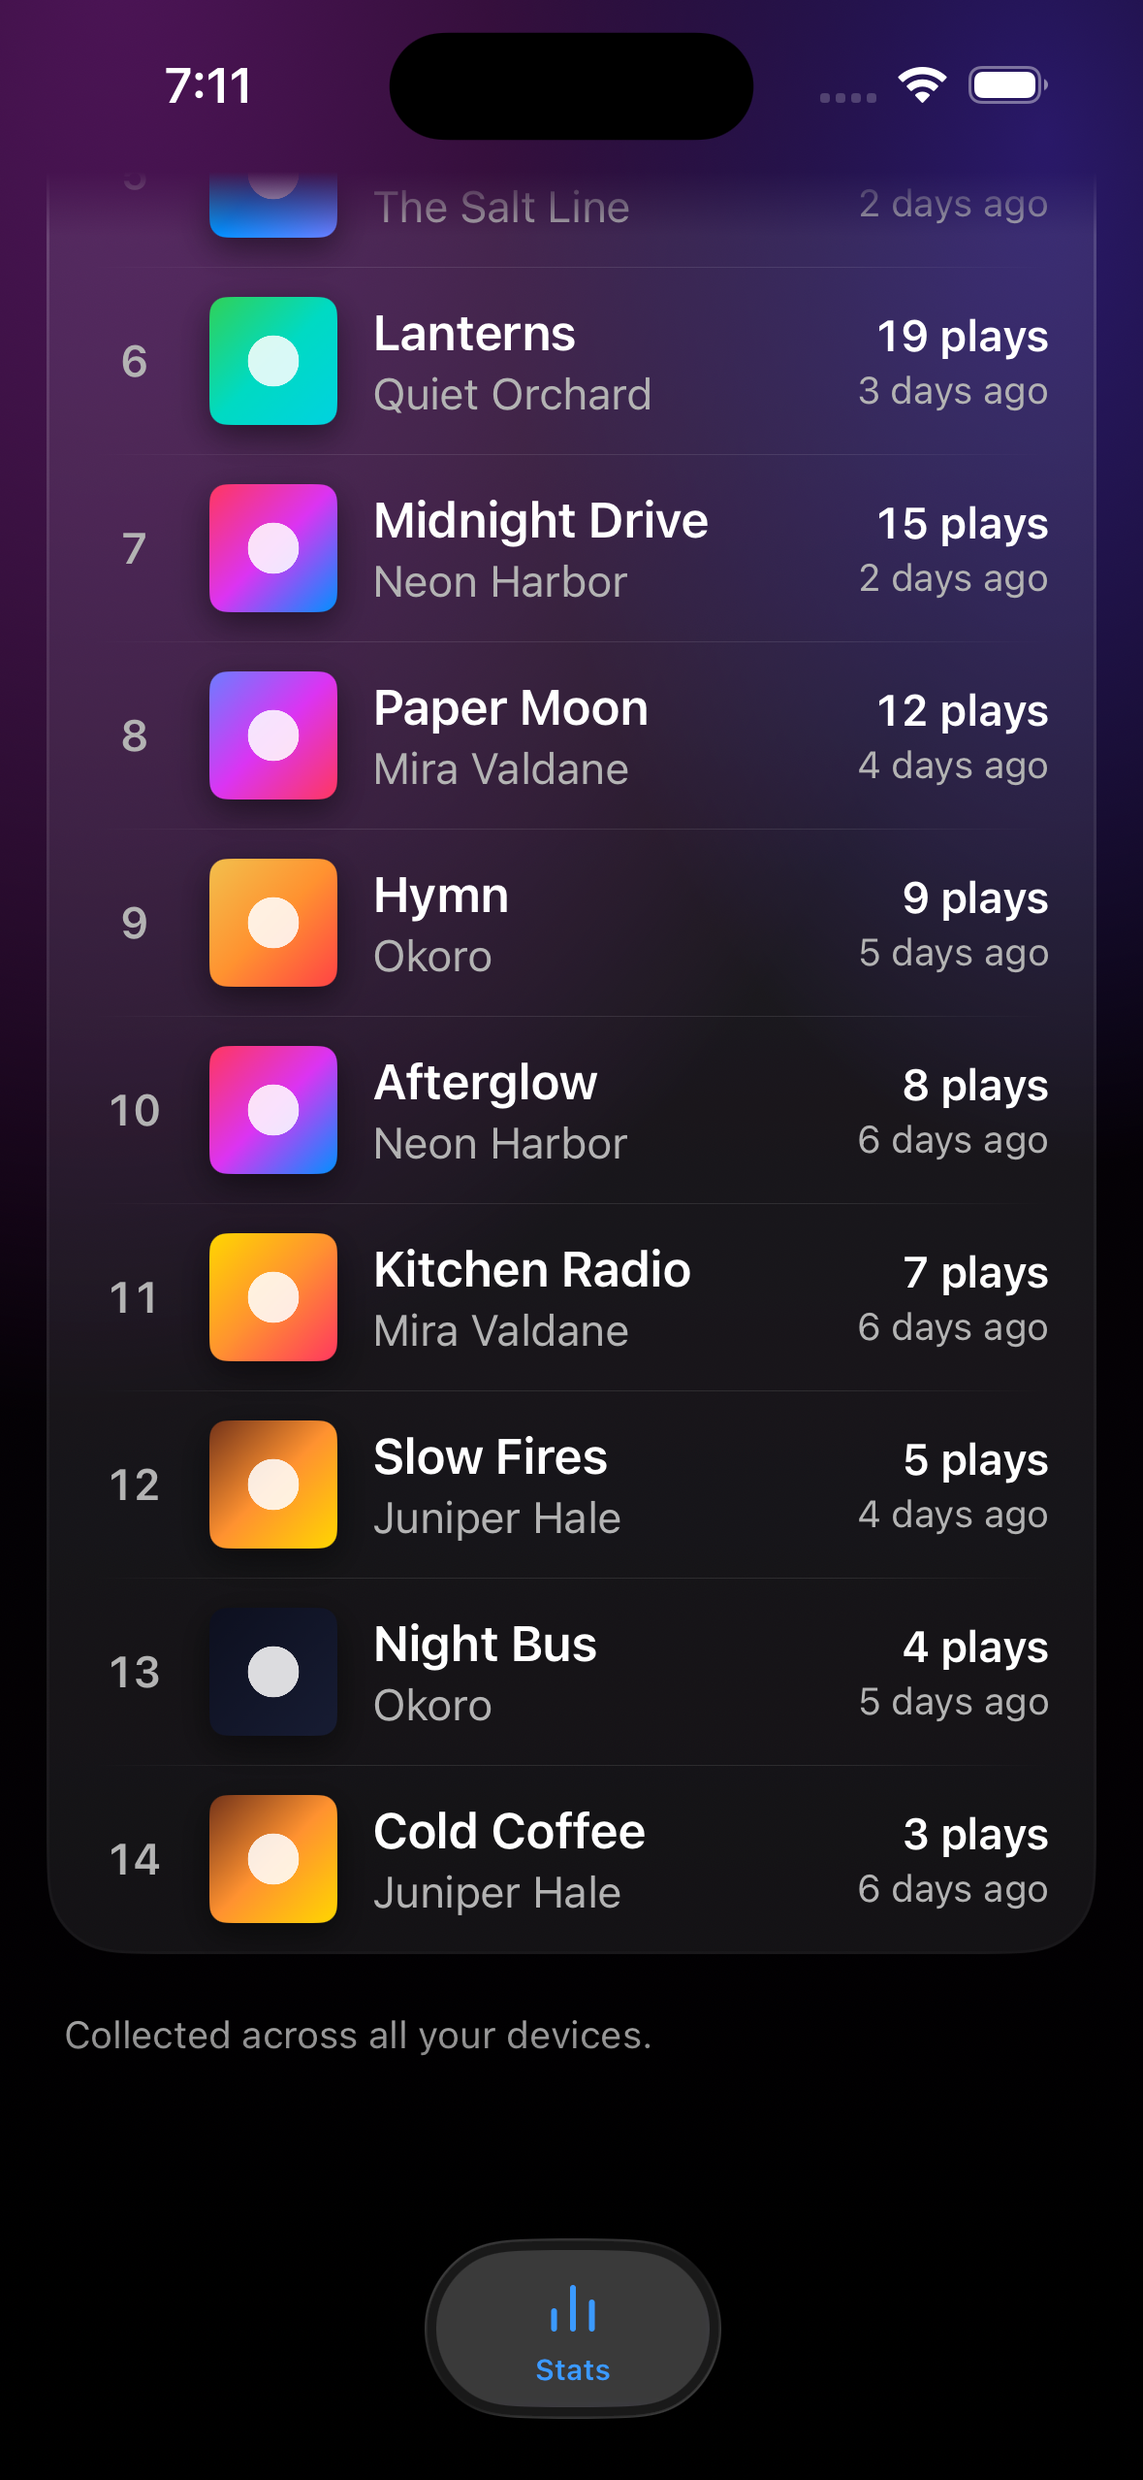
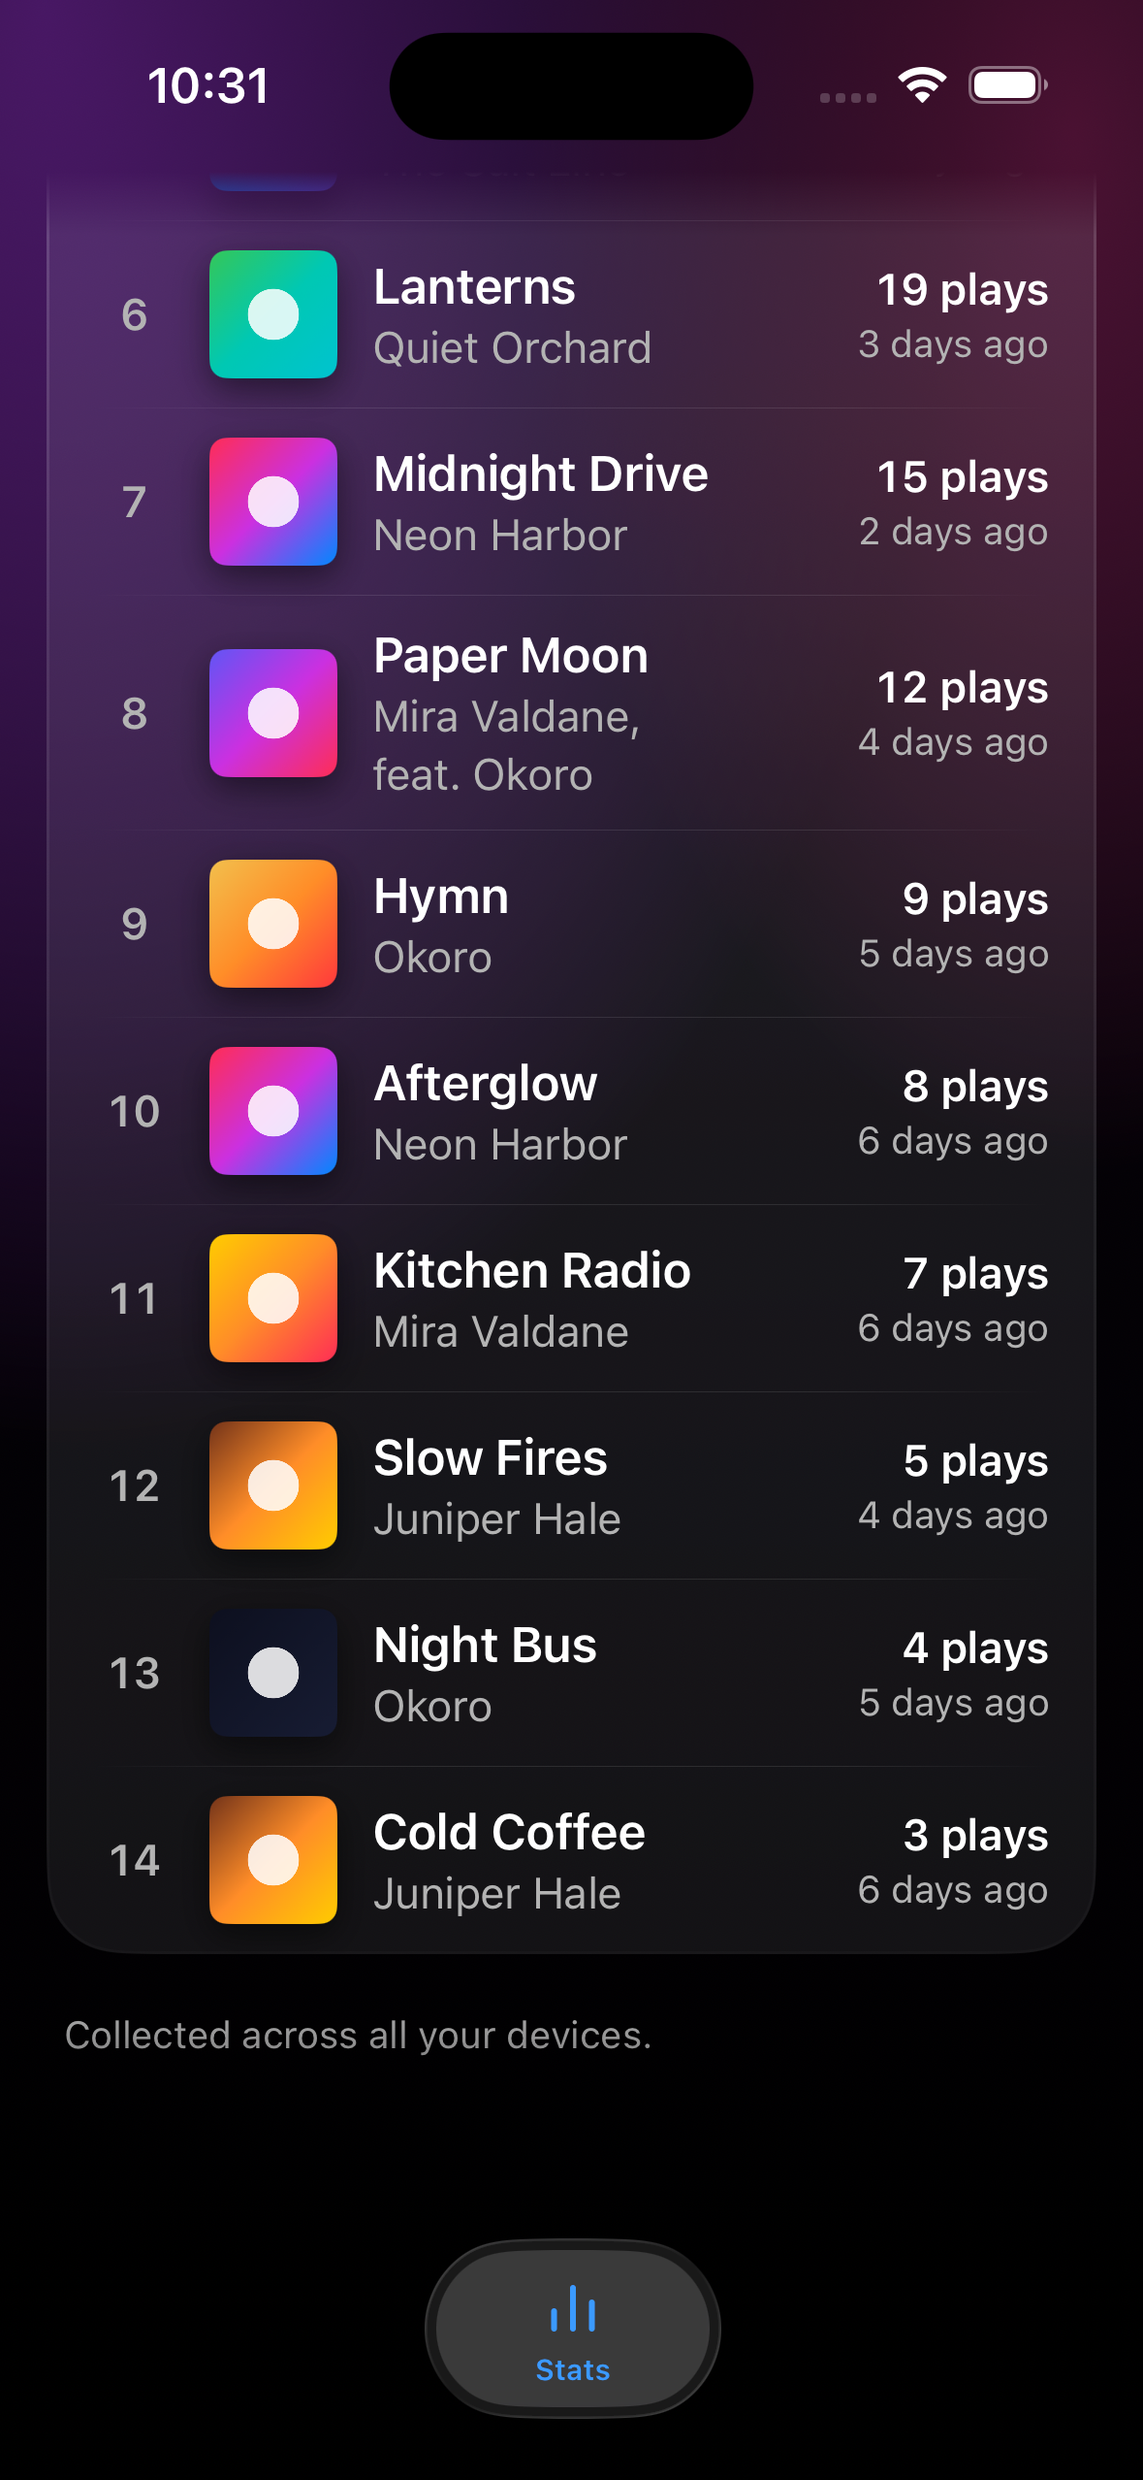
#288 Codex round 1: credit keys, featured names in Stats rows, Dynamic Type, role=link
- Mac Stats opens an 'A feat. B' credit at A's page (creditKey).
- Stats track rows on both apps show the plain title with the title's
  features in the linked artist line (display only; stored titles unchanged).
- iPhone artist page, Artists list and link line follow Dynamic Type.
- Mac artist links announce as links (role=link).
- UI test retaps a row tapped mid-scroll.

Claude-Session: https://claude.ai/code/session_016wtvpvRFjMyGctvKw2v9pz

diff --git a/apps/ios/Locally/Views/Library/ArtistPageView.swift b/apps/ios/Locally/Views/Library/ArtistPageView.swift
@@ -19,6 +19,12 @@ struct ArtistPageView: View {
     @State private var palette: AmbientPalette?
     @ScaledMetric(relativeTo: .largeTitle) private var titleSize: CGFloat = 30
     @ScaledMetric(relativeTo: .subheadline) private var lineSize: CGFloat = 14
+    /// Row covers grow with the text, up to a size that still leaves room for the words.
+    @ScaledMetric(relativeTo: .body) private var rowCover: CGFloat = 40
+
+    private static let sectionFont = Font.system(.headline, weight: .bold)
+    private static let metaFont = Font.subheadline
+    private static let rowTitleFont = Font.system(.subheadline, weight: .semibold)
 
     private var entry: ArtistCatalogEntry? { catalog?.entry(forKey: route.key) }
     private var stacked: Bool { dynamicTypeSize.isAccessibilitySize }
@@ -133,10 +139,10 @@ struct ArtistPageView: View {
         VStack(alignment: .leading, spacing: 8) {
             HStack(alignment: .firstTextBaseline) {
                 Text(label)
-                    .font(Theme.Font.sectionTitle)
+                    .font(Self.sectionFont)
                     .foregroundStyle(Theme.primaryText)
                 Text(Copy.Artists.sectionCount(count))
-                    .font(Theme.Font.meta)
+                    .font(Self.metaFont)
                     .foregroundStyle(Theme.textDim)
                 Spacer()
             }
@@ -167,12 +173,12 @@ struct ArtistPageView: View {
                             }
                         VStack(alignment: .leading, spacing: 2) {
                             Text(release.title)
-                                .font(Theme.Font.rowTitle)
+                                .font(Self.rowTitleFont)
                                 .foregroundStyle(Theme.primaryText)
                                 .lineLimit(stacked ? 3 : 1)
                             if let year = release.year, !year.isEmpty {
                                 Text(year)
-                                    .font(Theme.Font.rowSubtitle)
+                                    .font(Self.metaFont)
                                     .foregroundStyle(Theme.secondaryText)
                                     .lineLimit(1)
                             }
@@ -218,18 +224,18 @@ struct ArtistPageView: View {
             }
             StatsCoverView(owner: release.id, cache: covers.cache, cornerRadius: 6)
                 .id(covers.generation)
-                .frame(width: 40, height: 40)
+                .frame(width: min(rowCover, 64), height: min(rowCover, 64))
                 .accessibilityHidden(true)
             VStack(alignment: .leading, spacing: 2) {
                 Text(title)
-                    .font(Theme.Font.rowTitle)
+                    .font(Self.rowTitleFont)
                     .foregroundStyle(Theme.primaryText)
                     .lineLimit(stacked ? 4 : 2)
                     .accessibilityHidden(true)
-                ArtistLineText(main: credit.main, featuring: credit.featuring, font: .system(size: 13), lineLimit: stacked ? nil : 2)
+                ArtistLineText(main: credit.main, featuring: credit.featuring, font: .footnote, lineLimit: stacked ? nil : 2)
                 if let detail {
                     Text(detail)
-                        .font(.system(size: 12))
+                        .font(.caption)
                         .foregroundStyle(Theme.textHint)
                         .lineLimit(stacked ? 3 : 1)
                         .accessibilityHidden(true)
@@ -263,7 +269,7 @@ struct ArtistPageView: View {
     private var gone: some View {
         VStack(alignment: .leading, spacing: 16) {
             Text(Copy.Artists.gone)
-                .font(Theme.Font.sectionTitle)
+                .font(Self.sectionFont)
                 .foregroundStyle(Theme.primaryText)
                 .fixedSize(horizontal: false, vertical: true)
                 .accessibilityAddTraits(.isHeader)

diff --git a/apps/ios/Locally/Views/Stats/StatsRows.swift b/apps/ios/Locally/Views/Stats/StatsRows.swift
@@ -70,11 +70,20 @@ private struct StatsRow: View {
 
     private var stacked: Bool { typeSize.isAccessibilitySize }
 
+    /// A track's title without its "(feat. ...)" (the names move to the artist line); other rows keep theirs.
+    private var plainTitle: String {
+        guard item.trackId != nil else { return item.title }
+        let plain = ArtistNames.splitFeaturing(item.title).title
+        return plain.isEmpty ? item.title : plain
+    }
+
     /// Tracks and albums carry their artist as the subtitle: it becomes the linked artist line (#288).
+    /// A track's line also holds the features from its title, merged with any in an "A feat. B" artist.
     private var artistCredit: (artist: String, featuring: [String])? {
         guard item.releaseId != nil, !item.subtitle.isEmpty else { return nil }
         let split = ArtistNames.splitArtistFeaturing(item.subtitle)
-        return (split.artist, split.featuring)
+        let fromTitle = item.trackId != nil ? ArtistNames.splitFeaturing(item.title).featuring : []
+        return (split.artist, FeaturingNames.merged(fromTitle, split.featuring))
     }
 
     /// The row opens the release through a button behind it; the artist links sit on top, so no
@@ -91,7 +100,7 @@ private struct StatsRow: View {
                 .frame(width: Theme.Stats.rowCover, height: Theme.Stats.rowCover)
                 .shadow(color: .black.opacity(0.5), radius: 6, y: 4)
             VStack(alignment: .leading, spacing: 2) {
-                Text(item.title)
+                Text(plainTitle)
                     .font(.system(.body, weight: .semibold))
                     .foregroundStyle(StatsStyle.nameColor(item.medal))
                     .lineLimit(stacked ? 4 : 1)
@@ -99,7 +108,7 @@ private struct StatsRow: View {
                 if let credit = artistCredit {
                     ArtistLineText(
                         main: credit.artist, featuring: credit.featuring, font: .subheadline,
-                        mainColor: Theme.secondaryText, dimColor: Theme.secondaryText, lineLimit: stacked ? 3 : 1
+                        mainColor: Theme.secondaryText, dimColor: Theme.secondaryText, lineLimit: stacked ? nil : 2
                     )
                 } else {
                     Text(item.subtitle)
@@ -126,7 +135,7 @@ private struct StatsRow: View {
     }
 
     private var buttonLabel: String {
-        let base = Copy.Stats.itemLabel(rank: item.rank, title: item.title, plays: item.plays)
+        let base = Copy.Stats.itemLabel(rank: item.rank, title: plainTitle, plays: item.plays)
         let played = Copy.Stats.lastPlayedLabel(item.lastPlayedDay, today: today)
         return artistCredit == nil ? "\(base), \(item.subtitle), \(played)" : "\(base), \(played)"
     }

diff --git a/apps/ios/Locally/Views/Library/ArtistsView.swift b/apps/ios/Locally/Views/Library/ArtistsView.swift
@@ -65,12 +65,17 @@ struct ArtistsListView: View {
     let groups: [ArtistCatalog.Group]
     let source: ArtistCoverSource
 
+    @Environment(\.dynamicTypeSize) private var dynamicTypeSize
+    @ScaledMetric(relativeTo: .body) private var stackSize: CGFloat = 52
+
+    private var wraps: Bool { dynamicTypeSize.isAccessibilitySize }
+
     var body: some View {
         VStack(alignment: .leading, spacing: 16) {
             ForEach(groups, id: \.letter) { group in
                 VStack(alignment: .leading, spacing: 8) {
                     Text(group.letter)
-                        .font(Theme.Font.sectionTitle)
+                        .font(Font.system(.headline, weight: .bold))
                         .foregroundStyle(Theme.primaryText)
                         .padding(.horizontal, 4)
                         .frame(minHeight: Theme.Library.sectionHeaderMinHeight, alignment: .leading)
@@ -100,16 +105,16 @@ struct ArtistsListView: View {
     private func row(_ entry: ArtistCatalogEntry) -> some View {
         let count = Copy.Artists.countLine(releases: entry.releaseCount, tracks: entry.trackCount, appearsOn: entry.appearsOn.count)
         return HStack(spacing: 12) {
-            ArtistCoverStack(releases: entry.covers, source: source)
+            ArtistCoverStack(releases: entry.covers, source: source, size: min(stackSize, 76))
             VStack(alignment: .leading, spacing: 2) {
                 Text(entry.name)
-                    .font(Theme.Font.rowTitle)
+                    .font(Font.system(.subheadline, weight: .semibold))
                     .foregroundStyle(Theme.primaryText)
-                    .lineLimit(1)
+                    .lineLimit(wraps ? 3 : 1)
                 Text(count)
-                    .font(Theme.Font.rowSubtitle)
+                    .font(Font.subheadline)
                     .foregroundStyle(Theme.secondaryText)
-                    .lineLimit(1)
+                    .lineLimit(wraps ? 3 : 1)
             }
             Spacer()
             LocallyIcon(.chevronRight, size: 20, scaled: false)

diff --git a/apps/web/src/components/stats/StatsRows.tsx b/apps/web/src/components/stats/StatsRows.tsx
@@ -6,6 +6,7 @@ import { formatCount, lastPlayedLabel, playsCount } from "../../lib/stats-copy";
 import { moreLabel, nextShown, seaTiers } from "../../lib/stats-layout";
 import StatCover, { statCoverUrl } from "../sidebar/StatCover";
 import ArtistLinks from "../ArtistNav";
+import { splitFeaturing } from "../../lib/artist-names";
 
 /** The ranked list and the sorted sea under the fan on the Stats page (#145). Each row and each
  * tile is a real button: it opens the release, or for an artist their releases in the Library. */
@@ -64,6 +65,7 @@ export function StatsList({
   round,
   today,
   linkArtists,
+  trackRows = false,
   onOpen,
   initialShown,
   onShownChange,
@@ -74,6 +76,8 @@ export function StatsList({
   today: string;
   /** The subtitle is the artist's name (Tracks and Albums): each name opens that artist's page (#288). */
   linkArtists: boolean;
+  /** Tracks ranking: "Song (feat. Guest)" shows the plain title and Guest joins the artist line as a link. */
+  trackRows?: boolean;
   onOpen: (item: StatItem) => void;
   initialShown: number;
   onShownChange: (shown: number) => void;
@@ -101,10 +105,10 @@ export function StatsList({
                   className="medal-name st-focus block max-w-full truncate rounded-sm text-left text-[15px] font-semibold"
                   data-medal={medalFor(item.rank)}
                 >
-                  {item.title}
+                  {trackRows ? splitFeaturing(item.title).title : item.title}
                 </button>
                 <span className="block truncate text-sm text-text-muted">
-                  {linkArtists && item.subtitle.trim() !== "" ? <ArtistLinks artist={item.subtitle} /> : item.subtitle}
+                  {linkArtists && item.subtitle.trim() !== "" ? <ArtistLinks artist={item.subtitle} featuring={trackRows ? splitFeaturing(item.title).featuring : []} /> : item.subtitle}
                 </span>
               </span>
               <span className="st-row-last truncate text-sm text-text-muted">{lastPlayedLabel(item.lastPlayedDay, today)}</span>

diff --git a/apps/ios/Locally/Views/Components/ComponentGallery.swift b/apps/ios/Locally/Views/Components/ComponentGallery.swift
@@ -329,7 +329,7 @@ enum StatsGallery {
 
     private static let seeds: [Seed] = [
         Seed(n: 1, artist: "Mira Valdane", title: "Night Bus to Nowhere", genre: "Indie pop", colors: [.systemIndigo, .systemPurple, .systemPink],
-             tracks: [("Night Bus to Nowhere", 48, 0), ("Orange Streetlight", 31, 1), ("Paper Moon", 12, 4)]),
+             tracks: [("Night Bus to Nowhere", 48, 0), ("Orange Streetlight", 31, 1), ("Paper Moon (feat. Okoro)", 12, 4)]),
         Seed(n: 2, artist: "The Salt Line", title: "Low Tide", genre: "Folk", colors: [.systemTeal, .systemBlue, .systemIndigo],
              tracks: [("Low Tide", 36, 0), ("Harbour Lights", 22, 2)]),
         Seed(n: 3, artist: "Okoro", title: "Saltwater Hymns", genre: "Ambient", colors: [UIColor(red: 0.95, green: 0.75, blue: 0.30, alpha: 1), .systemOrange, .systemRed],
@@ -875,7 +875,7 @@ extension IconsGallery {
     /// All-time plays: most tracks have some, a few have none.
     private static func artistsPlays(_ releases: [Release]) -> PlayStatsRead {
         let byTitle: [String: Int] = [
-            "Night Bus to Nowhere": 192, "Orange Streetlight": 124, "Paper Moon": 48, "Kitchen Radio": 28, "Tide": 108, "Hymn": 36,
+            "Night Bus to Nowhere": 192, "Orange Streetlight": 124, "Paper Moon (feat. Okoro)": 48, "Kitchen Radio": 28, "Tide": 108, "Hymn": 36,
             "Night Bus": 16, "Late Trains": 61, "Glass Harbor (feat. Mira Valdane)": 71, "Slow Water": 0, "Low Light": 9,
             "Headlights (feat. Mira Valdane & Okoro)": 90, "Harbour Lights (feat. Jonah Reyes)": 22, "Sparrow": 14,
         ]

diff --git a/apps/web/src/components/AppShell.tsx b/apps/web/src/components/AppShell.tsx
@@ -6,8 +6,7 @@ import { acceptFromPhone, getLibrary, getSyncStatus, hideFromTray, resyncFromPho
 import Sidebar, { type SidebarPage } from "./sidebar/Sidebar";
 import LibraryView from "./LibraryView";
 import { buildArtistIndex } from "../lib/artist-index";
-import { buildArtistCatalog, catalogEntry } from "../lib/artist-catalog";
-import { artistKey } from "../lib/artist-names";
+import { buildArtistCatalog, catalogEntry, creditKey } from "../lib/artist-catalog";
 import ArtistView from "./ArtistView";
 import { ArtistNavProvider } from "./ArtistNav";
 import { IS_DEMO } from "../lib/demo";
@@ -430,7 +429,7 @@ export default function AppShell() {
                 setStatsPrefs((prev) => ({ ...prev, ...patch }));
               }}
               onOpenRelease={(id, trackId) => pushTo({ type: "release", id, trackId })}
-              onOpenArtist={(name) => pushTo({ type: "artist", key: artistKey(name) })}
+              onOpenArtist={(name) => pushTo({ type: "artist", key: creditKey(name) })}
               onOpenSettings={() => goTo({ type: "settings" })}
             />
           )}

diff --git a/apps/web/tests/unit/artist-catalog.test.ts b/apps/web/tests/unit/artist-catalog.test.ts
@@ -5,6 +5,7 @@ import {
   artistPageLine,
   buildArtistCatalog,
   catalogEntry,
+  creditKey,
   filterArtists,
   groupByLetter,
   mostPlayed,
@@ -159,5 +160,13 @@ describe("counts and search", () => {
     expect(filterArtists(catalog, "BJORK").map((e) => e.name)).toEqual(["Björk"]);
     expect(filterArtists(catalog, "  ")).toBe(catalog);
     expect(filterArtists(catalog, "zzz")).toEqual([]);
+  });
+});
+
+describe("creditKey", () => {
+  it("opens the main artist of a credit", () => {
+    expect(creditKey("Alpha feat. Beta")).toBe("alpha");
+    expect(creditKey("Alpha")).toBe("alpha");
+    expect(creditKey("Hall & Oates")).toBe("hall and oates");
   });
 });

diff --git a/apps/web/src/components/ArtistNav.tsx b/apps/web/src/components/ArtistNav.tsx
@@ -34,6 +34,7 @@ export function ArtistLink({ name, className = "" }: { name: string; className?:
   return (
     <button
       type="button"
+      role="link"
       data-artist-link={key}
       aria-disabled={lockedReason ? true : undefined}
       title={lockedReason ?? undefined}
@@ -101,6 +102,7 @@ export function ArtistOpenButton({ artist }: { artist: string }) {
   return (
     <button
       type="button"
+      role="link"
       aria-label={label}
       aria-disabled={lockedReason ? true : undefined}
       title={lockedReason ?? label}

diff --git a/apps/web/src/lib/artist-catalog.ts b/apps/web/src/lib/artist-catalog.ts
@@ -231,6 +231,11 @@ export function filterArtists(entries: CatalogEntry[], query: string): CatalogEn
   });
 }
 
+/** The key to open for a credit as Stats shows it: "A feat. B" opens A, the main artist. */
+export function creditKey(credit: string): string {
+  return artistKey(splitArtistFeaturing(credit).artist);
+}
+
 export function plural(n: number, noun: string): string {
   return `${n} ${noun}${n === 1 ? "" : "s"}`;
 }

diff --git a/apps/web/src/components/stats/StatsView.tsx b/apps/web/src/components/stats/StatsView.tsx
@@ -222,6 +222,7 @@ export default function StatsView({
                   round={tab === "artists"}
                   today={today}
                   linkArtists={tab !== "artists"}
+                  trackRows={tab === "tracks"}
                   onOpen={open}
                   initialShown={shown}
                   onShownChange={onShownChange}

diff --git a/apps/ios/LocallyUITests/ArtistLinksUITests.swift b/apps/ios/LocallyUITests/ArtistLinksUITests.swift
@@ -33,6 +33,8 @@ final class ArtistLinksUITests: XCTestCase {
         }
         scrollTo(row)
         row.tap()
+        // A tap that lands while the list is still coasting from a swipe only stops the scroll.
+        if !app.staticTexts["artist-page-title"].waitForExistence(timeout: 4) { row.tap() }
         title(name)
     }
 
